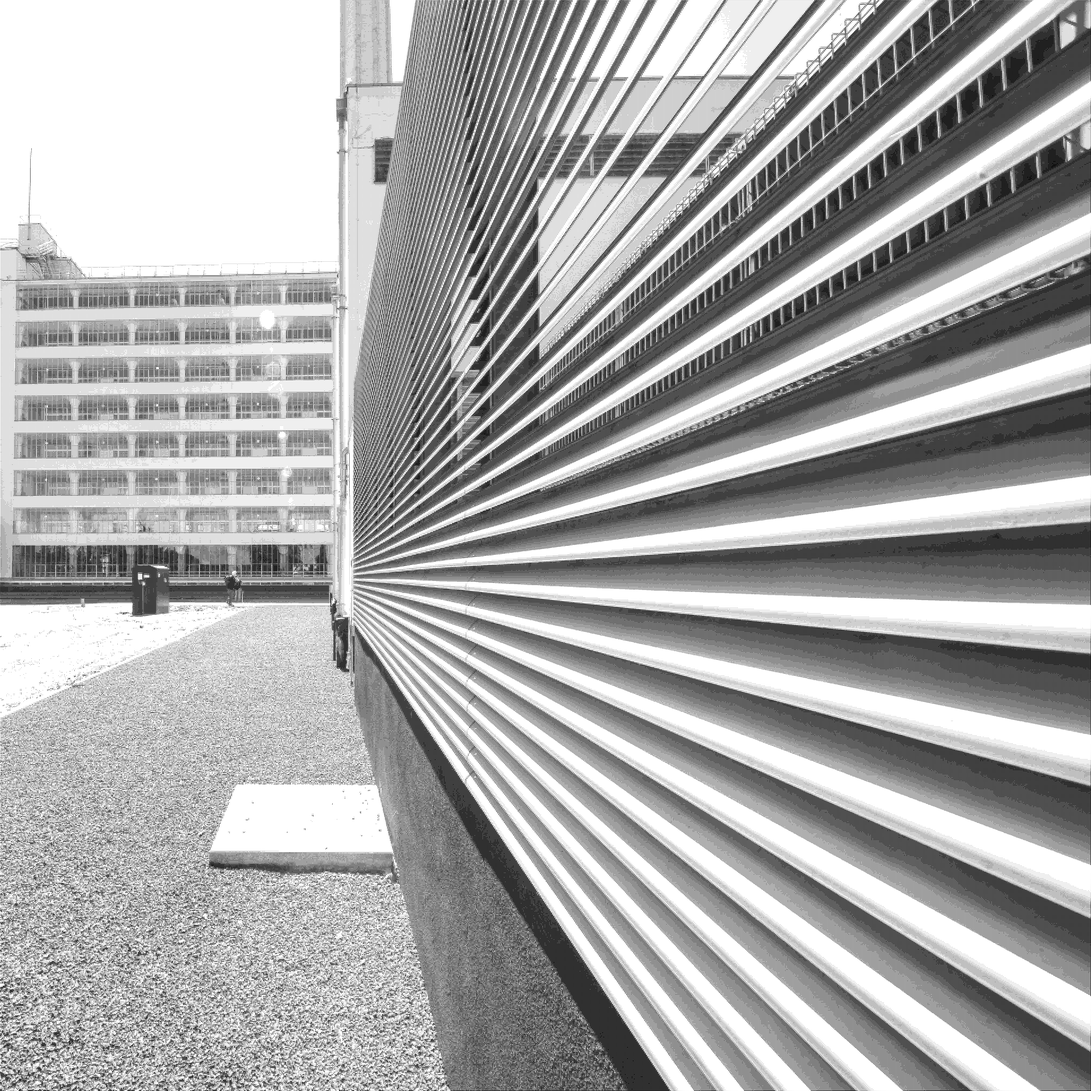
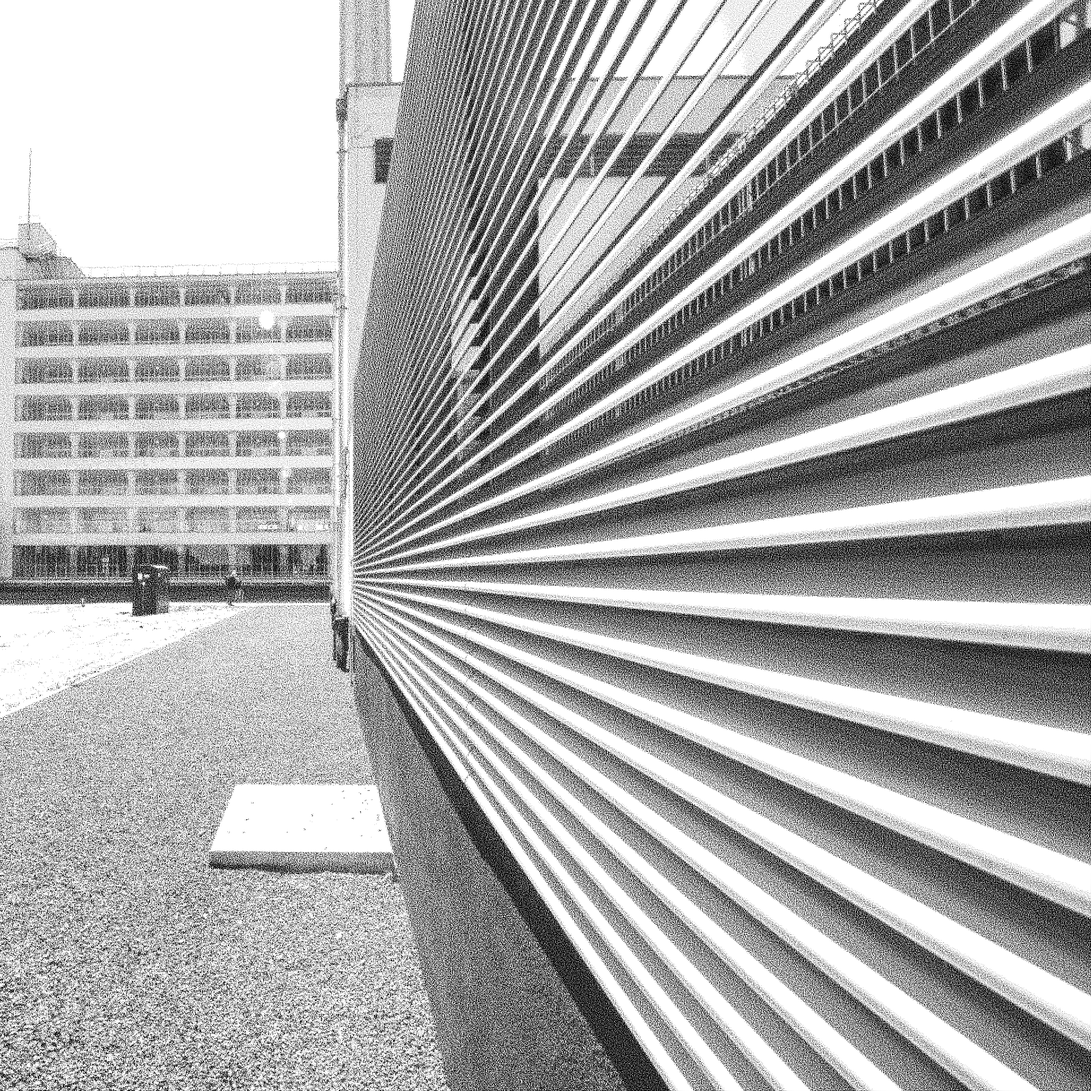
le pouvoir de l'aléa

diff --git a/src/Trame.java b/src/Trame.java
@@ -26,6 +26,21 @@ public class Trame {
 
 	}
 
+	int[][] genRandomPatterns() {
+		Random r = new Random();
+		int ret[][] = new int[width * height][width * height];
+		matrix = gen_centered_matrix(width, r.nextInt(width), r.nextInt(width), r.nextBoolean());
+		int w = 0xFFFFFF;
+		int b = 0;
+		for (int i = 0; i < width * height; i++) {
+			for (int j = 0; j < width * height; j++) {
+				ret[i][j] = matrix[j] > i ? b : w;
+			}
+		}
+
+		return ret;
+	}
+
 	int[][] genPatterns() {
 		int ret[][] = new int[width * height][width * height];
 
@@ -51,6 +66,32 @@ public class Trame {
 			System.out.println("---------------------------------------------------\n");
 		}
 	}
+
+	BufferedImage randomTraming(BufferedImage src) {
+		ColorModel cm = src.getColorModel();
+		boolean isAlphaPremultiplied = cm.isAlphaPremultiplied();
+		WritableRaster raster = src.copyData(null);
+		BufferedImage image = new BufferedImage(cm, raster, isAlphaPremultiplied, null);
+
+		int t_x = image.getWidth() / width;
+		int t_y = image.getHeight() / height;
+
+		//printPattern();
+
+		for (int i = 0; i < t_x; i++)
+			for (int j = 0; j < t_y; j++) {
+				int tot = 0;
+				patterns = genRandomPatterns();
+				for (int x = 0; x < width; x++)
+					for (int y = 0; y < height; y++) {
+						tot += image.getRGB(width * i + x, height * j + y) & 0xFF;
+					}
+				image.setRGB(width * i, height * j, width, height, patterns[tot / (height * width * width * height)], 0, width);
+			}
+
+		return image;
+	}
+
 
 	BufferedImage traming(BufferedImage src) {
 		ColorModel cm = src.getColorModel();
@@ -199,7 +240,7 @@ public class Trame {
 	}
 
 	public static void main(String[] args) {
-		int m[] = gen_centered_matrix(4, 1, 1, true);
+		int m[] = gen_centered_matrix(4, 2, 2, true);
 
 		Trame t = new Trame(4, 4, m);
 		for (int i = 1; i < 8; i++) {
@@ -207,7 +248,7 @@ public class Trame {
 			File input_file = new File(path);
 			try {
 				BufferedImage image = ImageIO.read(input_file);
-				BufferedImage n = t.traming(image);
+				BufferedImage n = t.randomTraming(image);
 
 				File reduced = new File("output/trame/gen-trame" + i + ".png");
 				ImageIO.write(n, "png", reduced);
